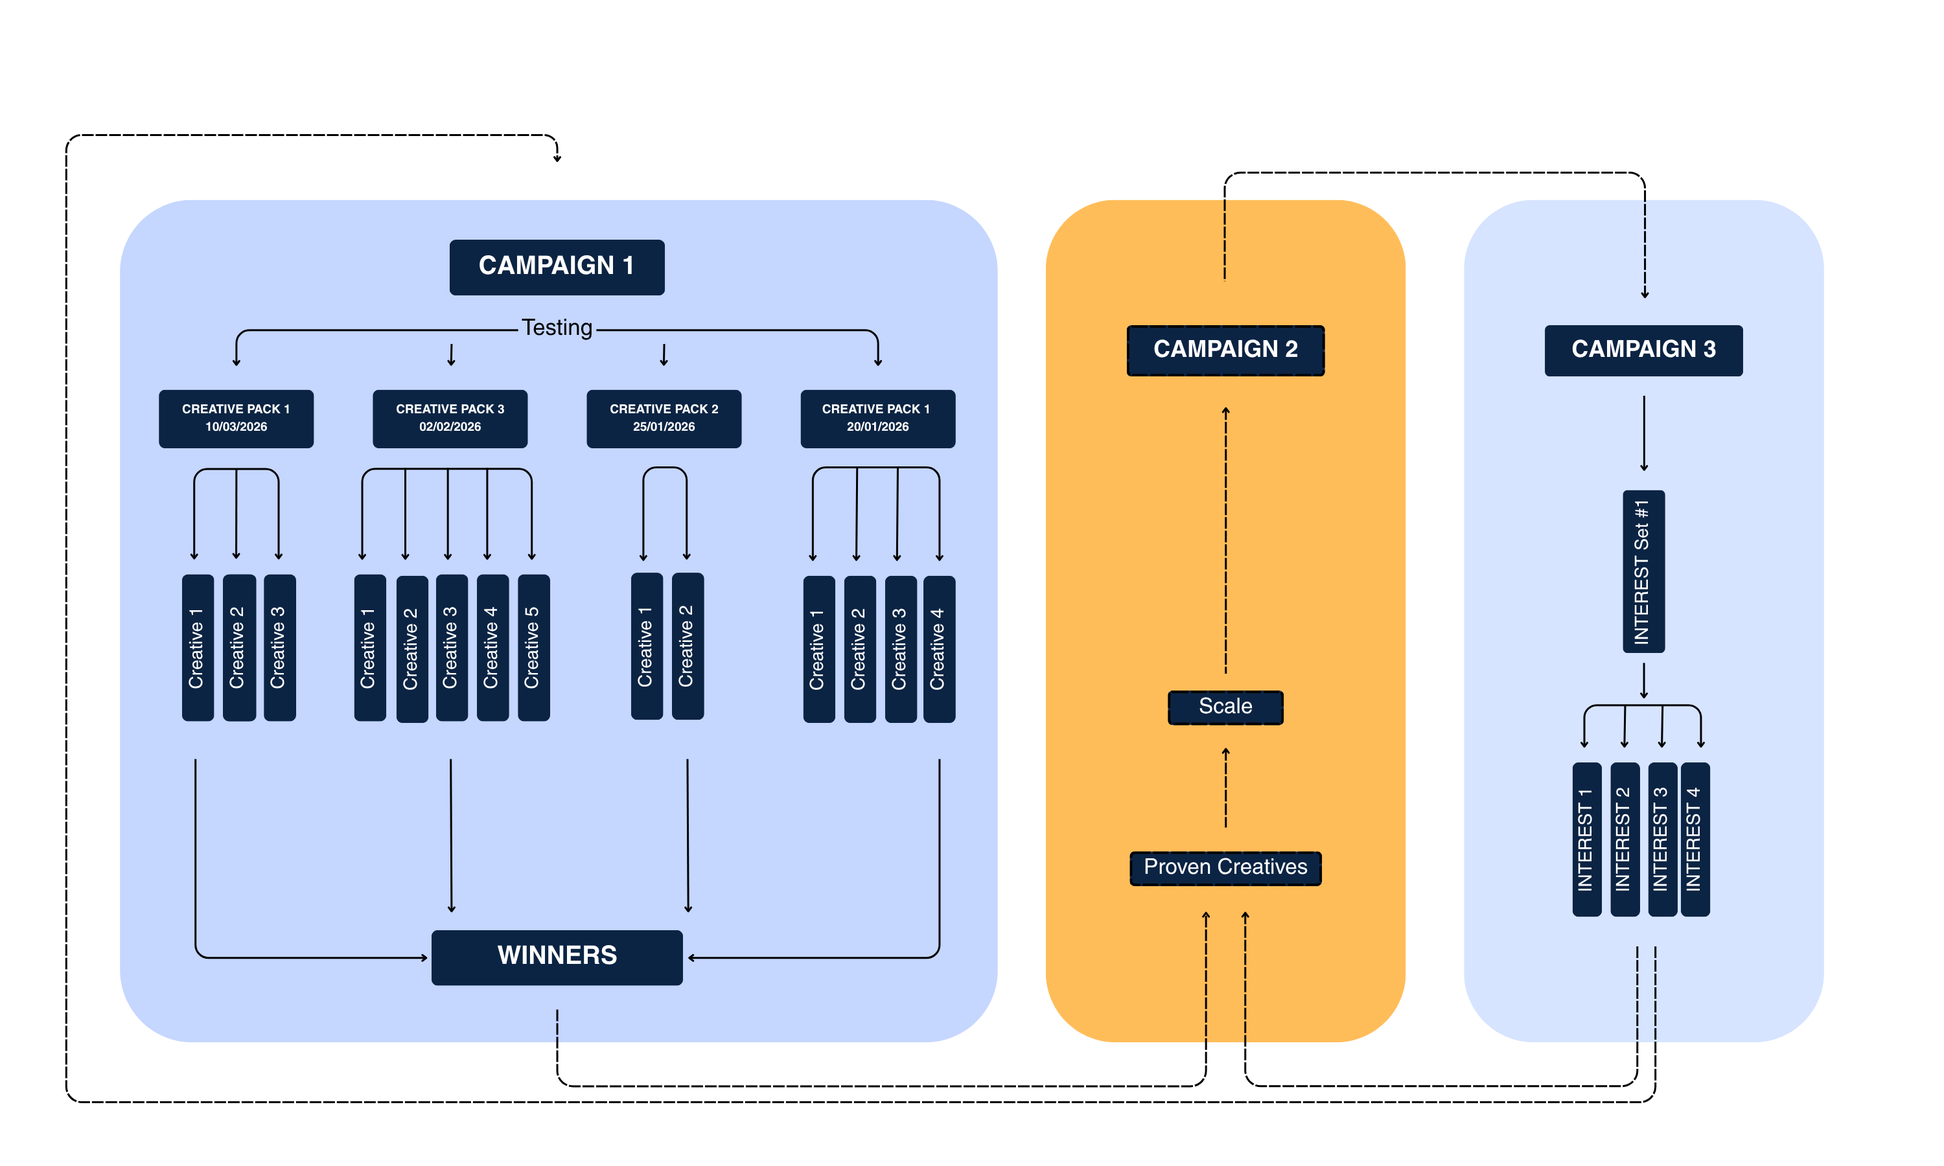
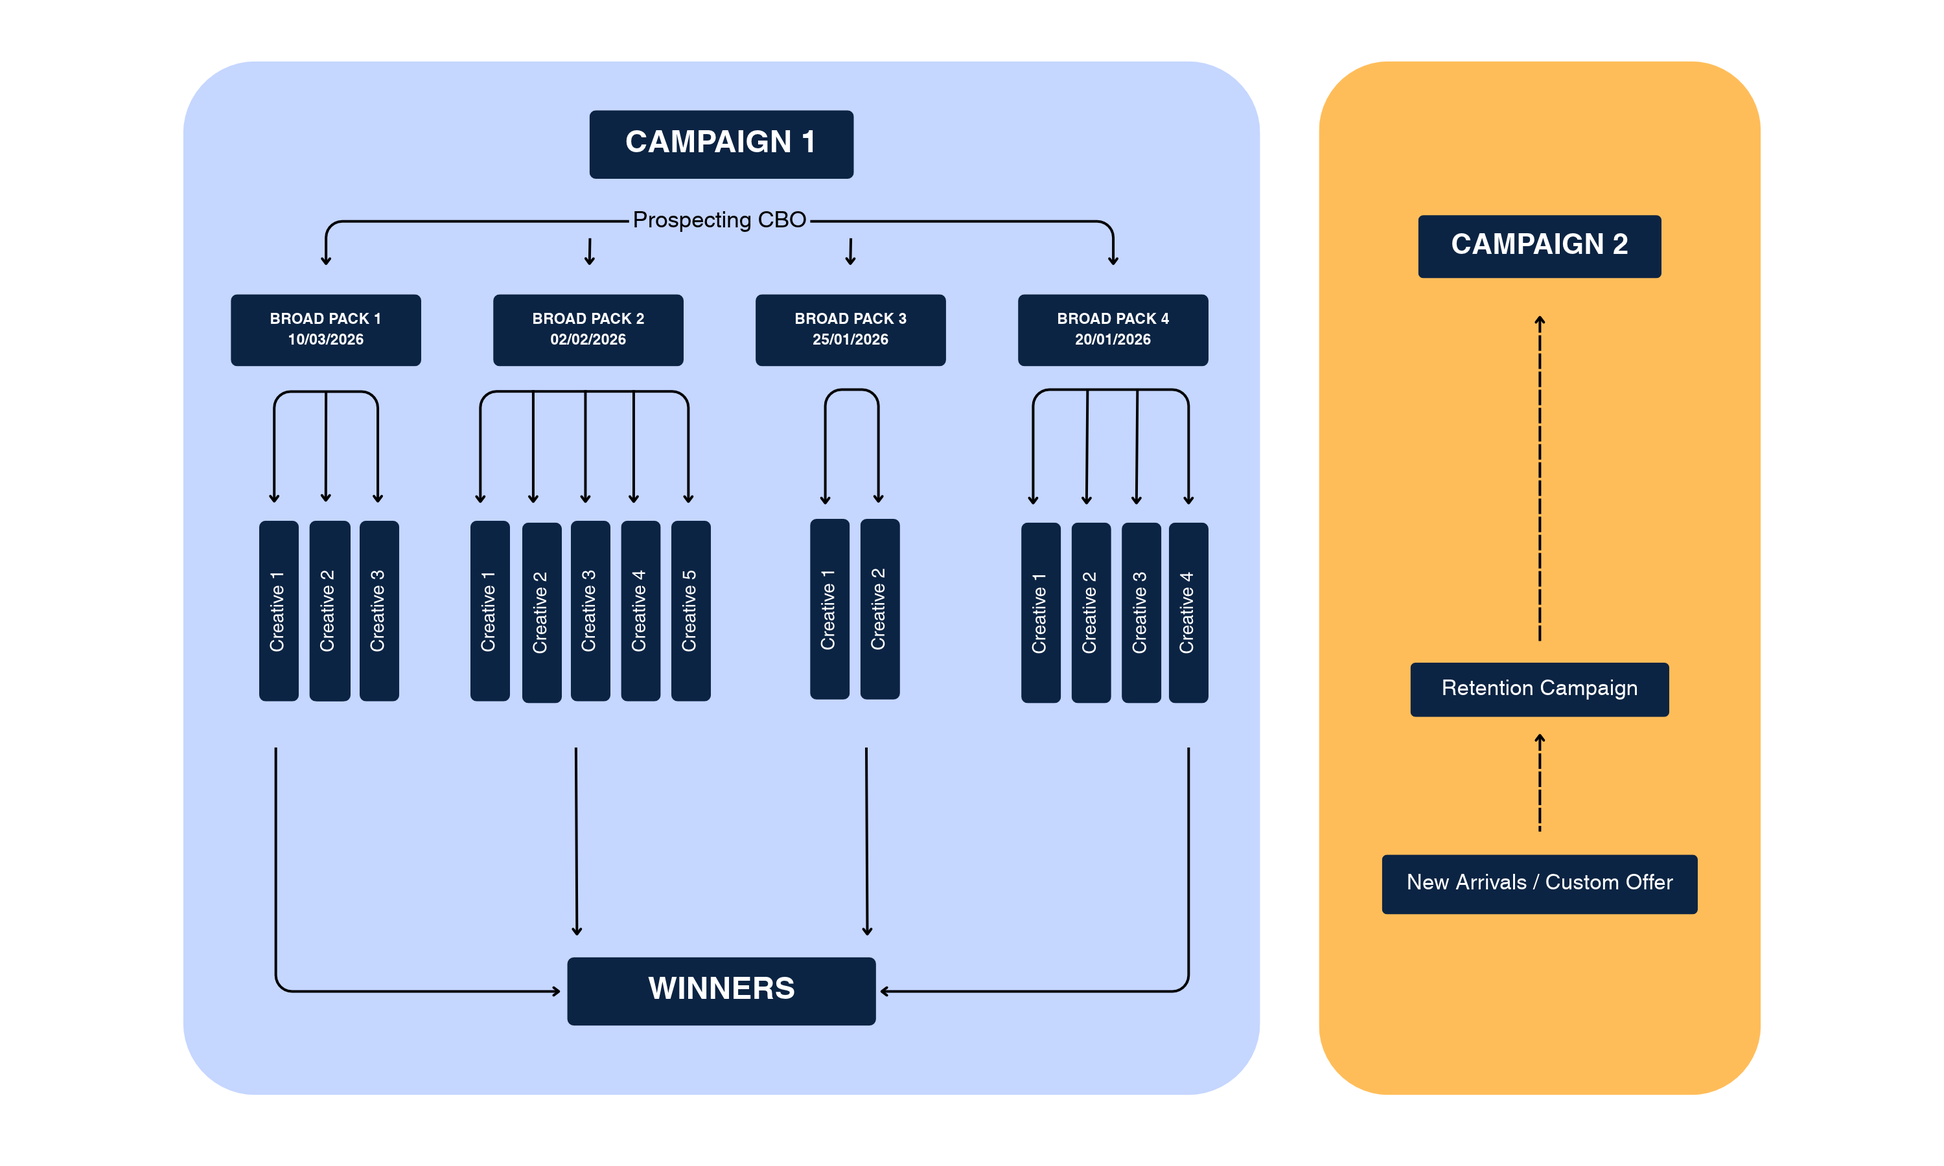
New A3 Flywheel diagram everywhere
- Replace the circular A3 Flywheel SVG on the homepage, /about-us, /ecommerce, /lead-gen and
  /lead-gen-linkedin-ads with the new campaign-structure diagram (public/images/a3-flywheel.png), full card
  width with the A1-A3 stages in a row below; tapping opens it full size.
- Swap app/assests/flywheelmodel.png (done-for-you and older sections) for the same image.

diff --git a/app/lead-gen-linkedin-ads/markup.ts b/app/lead-gen-linkedin-ads/markup.ts
@@ -424,30 +424,8 @@ const markup = `
       <h2>The <span class="grad">A3 Flywheel</span>, built for lead generation</h2>
       <p>The same weekly system behind our ecommerce results, tuned for one goal: more leads your sales team can close, at a cost that makes sense.</p>
     </div>
-    <div class="card fly">
-      <svg viewBox="0 0 400 400" role="img" aria-label="A3 Flywheel: A1 Foundation Structure feeds A2 Creative Framework, which feeds A3 Lead-Quality Analysis, which feeds back into A1">
-        <defs>
-          <marker id="ar" viewBox="0 0 10 10" refX="7" refY="5" markerWidth="6" markerHeight="6" orient="auto"><path d="M0 0L10 5L0 10z" fill="#6366F1"/></marker>
-          <linearGradient id="ring" x1="0" y1="0" x2="1" y2="1"><stop offset="0" stop-color="#6366F1"/><stop offset="1" stop-color="#F97316"/></linearGradient>
-        </defs>
-        <circle cx="200" cy="200" r="135" fill="#F7F9FC" stroke="#E4E4E7" stroke-width="1.5" stroke-dasharray="4 7"/>
-        <path d="M238 70 A135 135 0 0 1 318 268" fill="none" stroke="url(#ring)" stroke-width="3" stroke-linecap="round" marker-end="url(#ar)"/>
-        <path d="M285 316 A135 135 0 0 1 112 304" fill="none" stroke="url(#ring)" stroke-width="3" stroke-linecap="round" marker-end="url(#ar)"/>
-        <path d="M78 258 A135 135 0 0 1 154 74" fill="none" stroke="url(#ring)" stroke-width="3" stroke-linecap="round" marker-end="url(#ar)"/>
-        <g font-family="Montserrat,sans-serif" text-anchor="middle">
-          <circle cx="200" cy="66" r="44" fill="#2B7FFF"/>
-          <text x="200" y="64" fill="#fff" font-weight="800" font-size="20">A1</text>
-          <text x="200" y="82" fill="#E0ECFF" font-size="10.5" font-weight="600">Foundation</text>
-          <circle cx="316" cy="270" r="44" fill="#F37513"/>
-          <text x="316" y="268" fill="#fff" font-weight="800" font-size="20">A2</text>
-          <text x="316" y="286" fill="#FFE8D6" font-size="10.5" font-weight="600">Creative</text>
-          <circle cx="84" cy="270" r="44" fill="#6366F1"/>
-          <text x="84" y="268" fill="#fff" font-weight="800" font-size="20">A3</text>
-          <text x="84" y="286" fill="#E0E7FF" font-size="9.5" font-weight="600">Lead Quality</text>
-          <text x="200" y="194" fill="#71717B" font-weight="700" font-size="12" letter-spacing="1">A3 =</text>
-          <text x="200" y="220" fill="#0F172A" font-weight="800" font-size="21">LEAD QUALITY</text>
-        </g>
-      </svg>
+    <div class="card fly fly-img">
+      <a class="fly-diagram-link" href="/images/a3-flywheel.png" target="_blank" rel="noopener" aria-label="Open the A3 Flywheel diagram full size"><img class="fly-diagram" src="/images/a3-flywheel.png" width="3000" height="1800" loading="lazy" decoding="async" alt="A3 Flywheel account structure: Campaign 1 is a Prospecting CBO running dated Broad Packs of creatives, whose winners are found and scaled; Campaign 2 is a Retention campaign fed by new arrivals and custom offers"></a>
       <div class="stages">
         <div class="stage"><span class="code">A1</span><div><h3>Foundation Structure</h3><p>A simple account built around who can actually buy: screened audiences, qualifying questions on the form, and one campaign that tests and scales, instead of five fighting each other.</p></div></div>
         <div class="stage"><span class="code">A2</span><div><h3>Creative Framework</h3><p>A new creative Pack every week, from competitor research, net-new concepts and iterations of proven winners. Every Pack is written to attract buyers and turn away browsers.</p></div></div>

diff --git a/app/lead-gen/markup.ts b/app/lead-gen/markup.ts
@@ -424,30 +424,8 @@ const markup = `
       <h2>The <span class="grad">A3 Flywheel</span>, built for lead generation</h2>
       <p>The same weekly system behind our ecommerce results, tuned for one goal: more leads your sales team can close, at a cost that makes sense.</p>
     </div>
-    <div class="card fly">
-      <svg viewBox="0 0 400 400" role="img" aria-label="A3 Flywheel: A1 Foundation Structure feeds A2 Creative Framework, which feeds A3 Lead-Quality Analysis, which feeds back into A1">
-        <defs>
-          <marker id="ar" viewBox="0 0 10 10" refX="7" refY="5" markerWidth="6" markerHeight="6" orient="auto"><path d="M0 0L10 5L0 10z" fill="#6366F1"/></marker>
-          <linearGradient id="ring" x1="0" y1="0" x2="1" y2="1"><stop offset="0" stop-color="#6366F1"/><stop offset="1" stop-color="#F97316"/></linearGradient>
-        </defs>
-        <circle cx="200" cy="200" r="135" fill="#F7F9FC" stroke="#E4E4E7" stroke-width="1.5" stroke-dasharray="4 7"/>
-        <path d="M238 70 A135 135 0 0 1 318 268" fill="none" stroke="url(#ring)" stroke-width="3" stroke-linecap="round" marker-end="url(#ar)"/>
-        <path d="M285 316 A135 135 0 0 1 112 304" fill="none" stroke="url(#ring)" stroke-width="3" stroke-linecap="round" marker-end="url(#ar)"/>
-        <path d="M78 258 A135 135 0 0 1 154 74" fill="none" stroke="url(#ring)" stroke-width="3" stroke-linecap="round" marker-end="url(#ar)"/>
-        <g font-family="Montserrat,sans-serif" text-anchor="middle">
-          <circle cx="200" cy="66" r="44" fill="#2B7FFF"/>
-          <text x="200" y="64" fill="#fff" font-weight="800" font-size="20">A1</text>
-          <text x="200" y="82" fill="#E0ECFF" font-size="10.5" font-weight="600">Foundation</text>
-          <circle cx="316" cy="270" r="44" fill="#F37513"/>
-          <text x="316" y="268" fill="#fff" font-weight="800" font-size="20">A2</text>
-          <text x="316" y="286" fill="#FFE8D6" font-size="10.5" font-weight="600">Creative</text>
-          <circle cx="84" cy="270" r="44" fill="#6366F1"/>
-          <text x="84" y="268" fill="#fff" font-weight="800" font-size="20">A3</text>
-          <text x="84" y="286" fill="#E0E7FF" font-size="9.5" font-weight="600">Lead Quality</text>
-          <text x="200" y="194" fill="#71717B" font-weight="700" font-size="12" letter-spacing="1">A3 =</text>
-          <text x="200" y="220" fill="#0F172A" font-weight="800" font-size="21">LEAD QUALITY</text>
-        </g>
-      </svg>
+    <div class="card fly fly-img">
+      <a class="fly-diagram-link" href="/images/a3-flywheel.png" target="_blank" rel="noopener" aria-label="Open the A3 Flywheel diagram full size"><img class="fly-diagram" src="/images/a3-flywheel.png" width="3000" height="1800" loading="lazy" decoding="async" alt="A3 Flywheel account structure: Campaign 1 is a Prospecting CBO running dated Broad Packs of creatives, whose winners are found and scaled; Campaign 2 is a Retention campaign fed by new arrivals and custom offers"></a>
       <div class="stages">
         <div class="stage"><span class="code">A1</span><div><h3>Foundation Structure</h3><p>A simple account built around who can actually buy: screened audiences, qualifying questions on the form, and one campaign that tests and scales, instead of five fighting each other.</p></div></div>
         <div class="stage"><span class="code">A2</span><div><h3>Creative Framework</h3><p>A new creative Pack every week, from competitor research, net-new concepts and iterations of proven winners. Every Pack is written to attract buyers and turn away browsers.</p></div></div>

diff --git a/app/ecommerce/markup.ts b/app/ecommerce/markup.ts
@@ -293,30 +293,8 @@ const markup = `
       <h2>The A3 Flywheel: how we scale Meta Ads after Andromeda</h2>
       <p>When Andromeda landed, interest targeting stopped working across most of the 20+ ad accounts we managed. So we rebuilt how we run them: one structure, three systems, run every week.</p>
     </div>
-    <div class="card fly">
-      <svg viewBox="0 0 400 400" role="img" aria-label="A3 Flywheel: A1 Structure feeds A2 Creative, which feeds A3 Micro Analysis, which feeds back into A1">
-        <defs>
-          <marker id="ar" viewBox="0 0 10 10" refX="7" refY="5" markerWidth="6" markerHeight="6" orient="auto"><path d="M0 0L10 5L0 10z" fill="#6366F1"/></marker>
-          <linearGradient id="ring" x1="0" y1="0" x2="1" y2="1"><stop offset="0" stop-color="#6366F1"/><stop offset="1" stop-color="#F97316"/></linearGradient>
-        </defs>
-        <circle cx="200" cy="200" r="135" fill="#F7F9FC" stroke="#E4E4E7" stroke-width="1.5" stroke-dasharray="4 7"/>
-        <path d="M238 70 A135 135 0 0 1 318 268" fill="none" stroke="url(#ring)" stroke-width="3" stroke-linecap="round" marker-end="url(#ar)"/>
-        <path d="M285 316 A135 135 0 0 1 112 304" fill="none" stroke="url(#ring)" stroke-width="3" stroke-linecap="round" marker-end="url(#ar)"/>
-        <path d="M78 258 A135 135 0 0 1 154 74" fill="none" stroke="url(#ring)" stroke-width="3" stroke-linecap="round" marker-end="url(#ar)"/>
-        <g font-family="Montserrat,sans-serif" text-anchor="middle">
-          <circle cx="200" cy="66" r="44" fill="#2B7FFF"/>
-          <text x="200" y="64" fill="#fff" font-weight="800" font-size="20">A1</text>
-          <text x="200" y="82" fill="#E0ECFF" font-size="10.5" font-weight="600">Structure</text>
-          <circle cx="316" cy="270" r="44" fill="#F37513"/>
-          <text x="316" y="268" fill="#fff" font-weight="800" font-size="20">A2</text>
-          <text x="316" y="286" fill="#FFE8D6" font-size="10.5" font-weight="600">Creative</text>
-          <circle cx="84" cy="270" r="44" fill="#6366F1"/>
-          <text x="84" y="268" fill="#fff" font-weight="800" font-size="20">A3</text>
-          <text x="84" y="286" fill="#E0E7FF" font-size="9.5" font-weight="600">Micro Analysis</text>
-          <text x="200" y="196" fill="#71717B" font-weight="700" font-size="11" letter-spacing="3">RUNS</text>
-          <text x="200" y="222" fill="#0F172A" font-weight="800" font-size="24">WEEKLY</text>
-        </g>
-      </svg>
+    <div class="card fly fly-img">
+      <a class="fly-diagram-link" href="/images/a3-flywheel.png" target="_blank" rel="noopener" aria-label="Open the A3 Flywheel diagram full size"><img class="fly-diagram" src="/images/a3-flywheel.png" width="3000" height="1800" loading="lazy" decoding="async" alt="A3 Flywheel account structure: Campaign 1 is a Prospecting CBO running dated Broad Packs of creatives, whose winners are found and scaled; Campaign 2 is a Retention campaign fed by new arrivals and custom offers"></a>
       <div class="stages">
         <div class="stage"><span class="code">A1</span><div><h3>Foundation Structure</h3><p>Two campaigns, not five. One Prospecting CBO that tests and scales new-customer ads, and one Retention campaign for past buyers. No audience overlap, no internal bidding war.</p></div></div>
         <div class="stage"><span class="code">A2</span><div><h3>Creative Framework</h3><p>A new creative Pack every week, from three systems: competitor research, net-new concepts, and iterations of proven winners. Learn from the market, create new, improve what works.</p></div></div>

diff --git a/app/about-us/markup.ts b/app/about-us/markup.ts
@@ -181,30 +181,8 @@ const markup = `
         <h2 id="h-a3">How does the A3 Flywheel work?</h2>
         <p><b style="color:var(--ink)">The A3 Flywheel is our weekly system for scaling Meta and Google Ads.</b> One structure, three systems, run every week, refined across 20+ ad accounts after Meta's Andromeda update.</p>
       </div>
-      <div class="card fly">
-        <svg viewBox="0 0 400 400" role="img" aria-label="A3 Flywheel: A1 Structure feeds A2 Creative, which feeds A3 Micro Analysis, which feeds back into A1">
-          <defs>
-            <marker id="ab-ar" viewBox="0 0 10 10" refX="7" refY="5" markerWidth="6" markerHeight="6" orient="auto"><path d="M0 0L10 5L0 10z" fill="#6366F1"/></marker>
-            <linearGradient id="ab-ring" x1="0" y1="0" x2="1" y2="1"><stop offset="0" stop-color="#6366F1"/><stop offset="1" stop-color="#F97316"/></linearGradient>
-          </defs>
-          <circle class="fly-ring" cx="200" cy="200" r="135" stroke-width="1.5" stroke-dasharray="4 7"/>
-          <path d="M238 70 A135 135 0 0 1 318 268" fill="none" stroke="url(#ab-ring)" stroke-width="3" stroke-linecap="round" marker-end="url(#ab-ar)"/>
-          <path d="M285 316 A135 135 0 0 1 112 304" fill="none" stroke="url(#ab-ring)" stroke-width="3" stroke-linecap="round" marker-end="url(#ab-ar)"/>
-          <path d="M78 258 A135 135 0 0 1 154 74" fill="none" stroke="url(#ab-ring)" stroke-width="3" stroke-linecap="round" marker-end="url(#ab-ar)"/>
-          <g font-family="Montserrat,sans-serif" text-anchor="middle">
-            <circle cx="200" cy="66" r="44" fill="#2B7FFF"/>
-            <text x="200" y="64" fill="#fff" font-weight="800" font-size="20">A1</text>
-            <text x="200" y="82" fill="#E0ECFF" font-size="10.5" font-weight="600">Structure</text>
-            <circle cx="316" cy="270" r="44" fill="#F37513"/>
-            <text x="316" y="268" fill="#fff" font-weight="800" font-size="20">A2</text>
-            <text x="316" y="286" fill="#FFE8D6" font-size="10.5" font-weight="600">Creative</text>
-            <circle cx="84" cy="270" r="44" fill="#6366F1"/>
-            <text x="84" y="268" fill="#fff" font-weight="800" font-size="20">A3</text>
-            <text x="84" y="286" fill="#E0E7FF" font-size="9.5" font-weight="600">Micro Analysis</text>
-            <text class="fly-sub" x="200" y="196" font-weight="700" font-size="11" letter-spacing="3">RUNS</text>
-            <text class="fly-main" x="200" y="222" font-weight="800" font-size="24">WEEKLY</text>
-          </g>
-        </svg>
+      <div class="card fly fly-img">
+        <a class="fly-diagram-link" href="/images/a3-flywheel.png" target="_blank" rel="noopener" aria-label="Open the A3 Flywheel diagram full size"><img class="fly-diagram" src="/images/a3-flywheel.png" width="3000" height="1800" loading="lazy" decoding="async" alt="A3 Flywheel account structure: Campaign 1 is a Prospecting CBO running dated Broad Packs of creatives, whose winners are found and scaled; Campaign 2 is a Retention campaign fed by new arrivals and custom offers"></a>
         <div class="stages">
           <div class="stage"><span class="code">A1</span><div><h3>Foundation Structure</h3><p>Two campaigns, not five. One Prospecting CBO that tests and scales new-customer ads, and one Retention campaign for people who have already bought.</p></div></div>
           <div class="stage"><span class="code">A2</span><div><h3>Creative Framework</h3><p>A new creative Pack every week, built from competitor research, net-new concepts and iterations of proven winners.</p></div></div>

diff --git a/app/(home)/(default)/markup.ts b/app/(home)/(default)/markup.ts
@@ -288,30 +288,8 @@ ${siteNav(true, true, BOOK)}
       <h2>The A3 Flywheel: how we scale after Andromeda</h2>
       <p>When Andromeda landed, interest targeting stopped working across most of the 20+ ad accounts we managed, ecommerce and lead gen alike. So we rebuilt how we run them: one structure, three systems, run every week.</p>
     </div>
-    <div class="card fly">
-      <svg viewBox="0 0 400 400" role="img" aria-label="A3 Flywheel: A1 Structure feeds A2 Creative, which feeds A3 Micro Analysis, which feeds back into A1">
-        <defs>
-          <marker id="ar" viewBox="0 0 10 10" refX="7" refY="5" markerWidth="6" markerHeight="6" orient="auto"><path d="M0 0L10 5L0 10z" fill="#6366F1"/></marker>
-          <linearGradient id="ring" x1="0" y1="0" x2="1" y2="1"><stop offset="0" stop-color="#6366F1"/><stop offset="1" stop-color="#F97316"/></linearGradient>
-        </defs>
-        <circle cx="200" cy="200" r="135" fill="#F7F9FC" stroke="#E4E4E7" stroke-width="1.5" stroke-dasharray="4 7"/>
-        <path d="M238 70 A135 135 0 0 1 318 268" fill="none" stroke="url(#ring)" stroke-width="3" stroke-linecap="round" marker-end="url(#ar)"/>
-        <path d="M285 316 A135 135 0 0 1 112 304" fill="none" stroke="url(#ring)" stroke-width="3" stroke-linecap="round" marker-end="url(#ar)"/>
-        <path d="M78 258 A135 135 0 0 1 154 74" fill="none" stroke="url(#ring)" stroke-width="3" stroke-linecap="round" marker-end="url(#ar)"/>
-        <g font-family="Montserrat,sans-serif" text-anchor="middle">
-          <circle cx="200" cy="66" r="44" fill="#2B7FFF"/>
-          <text x="200" y="64" fill="#fff" font-weight="800" font-size="20">A1</text>
-          <text x="200" y="82" fill="#E0ECFF" font-size="10.5" font-weight="600">Structure</text>
-          <circle cx="316" cy="270" r="44" fill="#F37513"/>
-          <text x="316" y="268" fill="#fff" font-weight="800" font-size="20">A2</text>
-          <text x="316" y="286" fill="#FFE8D6" font-size="10.5" font-weight="600">Creative</text>
-          <circle cx="84" cy="270" r="44" fill="#6366F1"/>
-          <text x="84" y="268" fill="#fff" font-weight="800" font-size="20">A3</text>
-          <text x="84" y="286" fill="#E0E7FF" font-size="9.5" font-weight="600">Micro Analysis</text>
-          <text x="200" y="196" fill="#71717B" font-weight="700" font-size="11" letter-spacing="3">RUNS</text>
-          <text x="200" y="222" fill="#0F172A" font-weight="800" font-size="24">WEEKLY</text>
-        </g>
-      </svg>
+    <div class="card fly fly-img">
+      <a class="fly-diagram-link" href="/images/a3-flywheel.png" target="_blank" rel="noopener" aria-label="Open the A3 Flywheel diagram full size"><img class="fly-diagram" src="/images/a3-flywheel.png" width="3000" height="1800" loading="lazy" decoding="async" alt="A3 Flywheel account structure: Campaign 1 is a Prospecting CBO running dated Broad Packs of creatives, whose winners are found and scaled; Campaign 2 is a Retention campaign fed by new arrivals and custom offers"></a>
       <div class="stages">
         <div class="stage"><span class="code">A1</span><div><h3>Foundation Structure</h3><p>Two campaigns, not five. One Prospecting CBO that tests and scales new-customer ads, and one Retention campaign for people who've already bought.</p></div></div>
         <div class="stage"><span class="code">A2</span><div><h3>Creative Framework</h3><p>A new creative Pack every week, from competitor research, net-new concepts and iterations of proven winners.</p></div></div>

diff --git a/app/ecommerce/ecommerce.css b/app/ecommerce/ecommerce.css
@@ -183,6 +183,11 @@ html:has(.ecom){scroll-behavior:smooth;scroll-padding-top:100px}
 @media (max-width:900px){.ecom .fly{grid-template-columns:1fr}
 }
 .ecom .fly svg{width:100%;max-width:400px;height:auto;margin-inline:auto;display:block}
+/* A3 Flywheel image: wide diagram, so it takes the full card width with the A1-A3 stages in a row below. */
+.ecom .fly.fly-img{grid-template-columns:1fr;gap:28px}
+.ecom .fly-diagram-link{display:block;cursor:zoom-in}
+.ecom .fly-diagram{display:block;width:100%;height:auto;max-width:1100px;margin-inline:auto;border-radius:14px;background:#fff}
+@media (min-width:900px){.ecom .fly-img .stages{grid-template-columns:repeat(3,minmax(0,1fr));align-items:start}}
 .ecom .stages{display:grid;gap:12px}
 .ecom .stage{display:grid;grid-template-columns:48px 1fr;gap:16px;padding:18px;border:1px solid var(--line);border-radius:12px;background:#fff;transition:border-color .2s,box-shadow .2s}
 .ecom .stage:hover{border-color:#C7D2FE;box-shadow:0 8px 24px -12px rgba(99,102,241,.35)}

diff --git a/app/about-us/about.css b/app/about-us/about.css
@@ -126,6 +126,10 @@
 /* A3 Flywheel */
 .ab .fly{display:grid;grid-template-columns:minmax(0,.9fr) minmax(0,1.1fr);gap:32px;align-items:center;padding:clamp(22px,3vw,36px)}
 .ab .fly svg{width:100%;max-width:400px;margin:0 auto;display:block}
+.ab .fly.fly-img{grid-template-columns:1fr;gap:28px}
+.ab .fly-diagram-link{display:block;cursor:zoom-in}
+.ab .fly-diagram{display:block;width:100%;height:auto;max-width:1100px;margin-inline:auto;border-radius:14px;background:#fff}
+@media (min-width:860px){.ab .fly-img .stages{grid-template-columns:repeat(3,minmax(0,1fr));align-items:start}}
 .ab .stages{display:grid;gap:12px}
 .ab .stage{display:grid;grid-template-columns:48px 1fr;gap:16px;padding:18px;border:1px solid var(--line);border-radius:12px;background:var(--card);transition:border-color .2s,box-shadow .2s}
 .ab .stage:hover{border-color:#c7d2fe;box-shadow:0 8px 24px -12px rgba(99,102,241,.35)}
